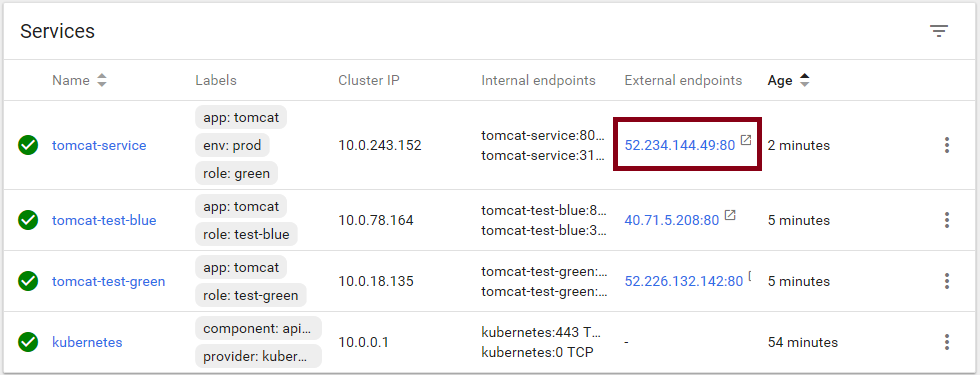
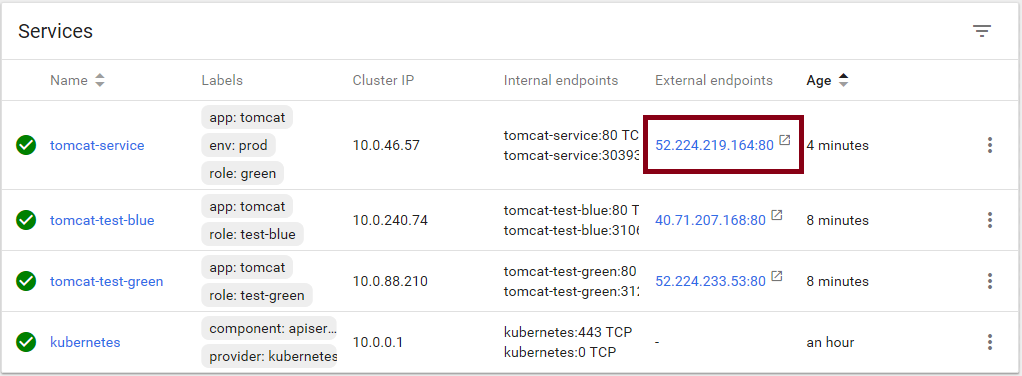
Update README for the AKS deployment

diff --git a/301-jenkins-k8s-blue-green/README.md b/301-jenkins-k8s-blue-green/README.md
@@ -8,8 +8,8 @@
 </a>
 
 This template provisions a Jenkins master running in a VM on Azure; configures a DevOps pipeline based on
-two public Tomcat Docker images and deploys to an Azure Container Service with Kubernetes orchestrator.
-It is an example to demonstrate how we can use Jenkins pipeline to do blue-green deployment on ACS Kubernetes.
+two public Tomcat Docker images and deploys to [AKS (Azure Container Service)](https://azure.microsoft.com/en-us/services/container-service/).
+It is an example to demonstrate how we can use Jenkins pipeline to do blue-green deployment on AKS.
 
 The quickstart template will provision the following resources in Azure:
 
@@ -32,6 +32,10 @@ The quickstart template will provision the following resources in Azure:
    1. Update the application public endpoint to route the traffic to "Green" environment.
    1. Verify that the public endpoint is working properly with the "Green" environment serving as backend.
 
+**Note**: At the time when this quickstart is created, AKS is in preview. You may need to enable the preview
+for your Azure subscription. Please refer to https://docs.microsoft.com/en-us/azure/aks/kubernetes-walkthrough#enabling-aks-preview-for-your-azure-subscription
+for more details.
+
 ## How to try it out
 
 ### Prerequisites
@@ -45,20 +49,18 @@ The quickstart template will provision the following resources in Azure:
 1. Click the **Deploy to Azure** button from above, this will lead you to the ARM provision page.
 1. Fill in the parameters, agree to the terms & conditions and click Purchase. It takes about 20 minutes
    for the provision process to complete. Once the deployment is complete, the resource group contains
-   all resources for the Jenkins master and the ACS Kubernetes cluster:
+   all resources for the Jenkins master and the AKS cluster:
 
    ![Resource List](img/resource-list.png)
 
 1. Check in the resource group, then then click `Deployments` to find the latest deployment with the name
    `Microsoft.Template`, the following details will be displayed in the *Outputs* section:
-   * `ADMINUSERNAME`: The Admin username for the Jenkins master VM and the ACS master VM, which is the one
-      you filled in the provision page
+   * `ADMINUSERNAME`: The Admin username for the Jenkins master VM, which is the one you filled in the provision page
    * `DEVOPSVMFQDN`: The host name of the Jenkins master VM
    * `JENKINSURL`: The Jenkins URL
    * `SSH`: The SSH command to create a tunnel through which you can login and manage the Jenkins instance
       securely
    * `KUBERNETESMASTERFQDN`: The host name of the ACS Kubernetes master node
-   * `KUBERNETESMASTERSSH`: The SSH command to login to the ACS Kubernetes master node
 1. Run the command listed in the `SSH` box. Check the Jenkins admin password by running the following command
    in the SSH session:
 
@@ -68,27 +70,40 @@ The quickstart template will provision the following resources in Azure:
 
 1. Visit http://localhost:8080, login with the admin password.
 1. Follow the instructions to setup the Jenkins instance.
-1. You can access the Kubernetes cluster by doing the following from your local machine. In command line:
+1. You can access the AKS cluster by doing the following from your local machine.
+
+   > **Note**: 	You need Azure CLI version 2.0.21 or later for AKS.
+   > Refer to https://docs.microsoft.com/en-us/cli/azure/install-azure-cli?view=azure-cli-latest#update-the-cli 
+   > if you need to update your installation.
+
+   In command line:
 
    ```sh
    az login
-   az acs kubernetes get-credentials \
+   az aks get-credentials \
        --resource-group <yourResourceGroup> \
        --name containerservice-<yourResourceGroup> \
-       --ssh-key-file <yourPrivateKeyFilePath>
+       --admin
+   ```
+
+   To verify the connection to your cluster, use the `kubectl get` command.
+
+   ![kubectl get](img/kubectl-get.png)
+
+   ```sh
    kubectl proxy
    ```
 
    Type http://localhost:8001/ui in your browser to get to the Kubernetes Web UI (Dashboard.) Since nothing
-   has been provision yet, it is not too exciting yet.
+   has been provisioned, it is not too exciting yet.
 
    ![Kubernetes UI](img/kubernetes-ui.png)
 
    ***Note***: In recent version of Kubernetes, the dashboard UI redirection seems to be broken. If you see
-   blank page after the the server redirection, add a trailing slash `/` to the redirected address in the
+   blank page after the server redirection, add a trailing slash `/` to the redirected address in the
    address bar.
 
-1. Go back to your Jenkins master dashboard, you should see a job **ACS Kubernetes Blue-green Deployment**.
+1. Go back to your Jenkins master dashboard, you should see a job **AKS Kubernetes Blue-green Deployment**.
 1. Start the build. The build process may take several minutes for the first time, as the backend Kubernetes
    needs to provision the Azure load balancer for the test and public endpoints for the services.
 
@@ -100,7 +115,7 @@ The quickstart template will provision the following resources in Azure:
 
    ![Test Endpoint](img/k8s-test-service.png)
 
-1. When the Jenkins job finishes, to verify the Green environment has been switched over to the public
+1. When the Jenkins job finishes, verify the Green environment has been switched over to the public
    service endpoint, click the external endpoint for `tomcat-service`.
 
    ![Service Endpoint](img/k8s-tomcat-service.png)
@@ -112,3 +127,8 @@ The quickstart template will provision the following resources in Azure:
 1. If you run the build more than once, it will cycle through BLUE and GREEN deployments. i.e., if the current
    environment is **Green**, the job will deploy/test the **Blue** (Tomcat 7) environment and then update
    the application public endpoint to route traffic to the **Blue** environment if all is good with testing.
+
+   **Note**: In the deployment pipeline, we always deploy the ***SAME*** image to a given environment in later builds.
+   This is just for demonstration on updating the environment. In real world projects, we would build a new image
+   with the latest project artifacts installed, update the image reference in the deployment config and deploy it
+   to the target environment.
